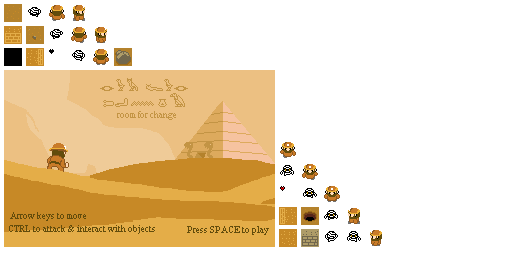
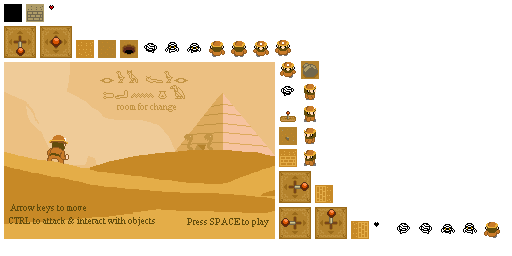
Added LeverScreen

Changed region(s): [[0.0, 0.0, 0.75, 0.9688], [0.7812, 0.8438, 1.0, 0.9375]]

diff --git a/roomforchange/roomforchange/src/com/sturdyhelmetgames/roomforchange/screen/LeverScreen.java b/roomforchange/roomforchange/src/com/sturdyhelmetgames/roomforchange/screen/LeverScreen.java
@@ -1,0 +1,85 @@
+package com.sturdyhelmetgames.roomforchange.screen;
+
+import com.badlogic.gdx.Gdx;
+import com.badlogic.gdx.Input.Keys;
+import com.badlogic.gdx.graphics.g2d.TextureRegion;
+import com.sturdyhelmetgames.roomforchange.RoomForChangeGame;
+import com.sturdyhelmetgames.roomforchange.assets.Assets;
+import com.sturdyhelmetgames.roomforchange.level.Level;
+
+public class LeverScreen extends Basic2DScreen {
+
+	private final GameScreen gameScreen;
+
+	public static final int UP = 0;
+	public static final int DOWN = 1;
+	public static final int LEFT = 2;
+	public static final int RIGHT = 3;
+	public static final int NEUTRAL = 4;
+
+	private int leverDirection = NEUTRAL;
+	private float leverStateTime = 0f;
+	private float MAX_LEVER_STATETIME = 2.5f;
+
+	public LeverScreen(RoomForChangeGame game, GameScreen gameScreen) {
+		super(game, 12, 8);
+		this.gameScreen = gameScreen;
+	}
+
+	@Override
+	protected void updateScreen(float fixedStep) {
+		gameScreen.updateScreen(fixedStep);
+
+		if (leverDirection != NEUTRAL) {
+			leverStateTime += fixedStep;
+			if (leverStateTime > MAX_LEVER_STATETIME) {
+				leverStateTime = 0f;
+				leverDirection = NEUTRAL;
+			}
+		}
+	}
+
+	@Override
+	public void renderScreen(float delta) {
+		gameScreen.renderScreen(delta);
+		spriteBatch.setProjectionMatrix(camera.combined);
+		spriteBatch.begin();
+
+		TextureRegion region = null;
+		if (leverDirection == UP) {
+			region = Assets.getFullGameObject("lever-up");
+		} else if (leverDirection == DOWN) {
+			region = Assets.getFullGameObject("lever-down");
+		} else if (leverDirection == LEFT) {
+			region = Assets.getFullGameObject("lever-left");
+		} else if (leverDirection == RIGHT) {
+			region = Assets.getFullGameObject("lever-right");
+		} else if (leverDirection == NEUTRAL) {
+			region = Assets.getFullGameObject("lever-neutral");
+		}
+		spriteBatch.draw(region, -2f, -2f, 4f, 4f);
+		spriteBatch.end();
+	}
+
+	@Override
+	public boolean keyDown(int keycode) {
+		if (keycode == Keys.UP) {
+			gameScreen.startScreenQuake(Level.UP);
+			leverDirection = UP;
+		} else if (keycode == Keys.DOWN) {
+			gameScreen.startScreenQuake(Level.DOWN);
+			leverDirection = DOWN;
+		} else if (keycode == Keys.LEFT) {
+			gameScreen.startScreenQuake(Level.LEFT);
+			leverDirection = LEFT;
+		} else if (keycode == Keys.RIGHT) {
+			gameScreen.startScreenQuake(Level.RIGHT);
+			leverDirection = RIGHT;
+		} else if (keycode == Keys.CONTROL_LEFT || keycode == Keys.ESCAPE) {
+			Gdx.input.setInputProcessor(gameScreen);
+			game.setScreen(gameScreen);
+		}
+		return super.keyDown(keycode);
+	}
+
+}

diff --git a/roomforchange/roomforchange/src/com/sturdyhelmetgames/roomforchange/entity/Player.java b/roomforchange/roomforchange/src/com/sturdyhelmetgames/roomforchange/entity/Player.java
@@ -2,12 +2,14 @@ package com.sturdyhelmetgames.roomforchange.entity;
 
 import com.badlogic.gdx.graphics.g2d.Animation;
 import com.badlogic.gdx.graphics.g2d.SpriteBatch;
+import com.badlogic.gdx.math.Rectangle;
 import com.sturdyhelmetgames.roomforchange.assets.Assets;
 import com.sturdyhelmetgames.roomforchange.level.Level;
 
 public class Player extends Entity {
 
 	private int health;
+	private final Rectangle hitBounds = new Rectangle(0f, 0f, 1f, 1f);
 
 	public Player(float x, float y, Level level) {
 		super(x, y, 1f, 1f, level);
@@ -38,6 +40,27 @@ public class Player extends Entity {
 					bounds.y, width, height);
 		}
 
+	}
+
+	private static final float HIT_DISTANCE = 0.5f;
+
+	public void tryHit() {
+		hitBounds.x = bounds.x;
+		hitBounds.y = bounds.y;
+		if (direction == Direction.LEFT) {
+			hitBounds.x -= HIT_DISTANCE;
+		} else if (direction == Direction.RIGHT) {
+			hitBounds.x += HIT_DISTANCE;
+		} else if (direction == Direction.UP) {
+			hitBounds.y += HIT_DISTANCE;
+		} else if (direction == Direction.DOWN) {
+			hitBounds.y -= HIT_DISTANCE;
+		}
+
+		for (int i = 0; i < level.entities.size; i++) {
+			final Entity entity = level.entities.get(i);
+			entity.hit(hitBounds);
+		}
 	}
 
 }

diff --git a/roomforchange/roomforchange/src/com/sturdyhelmetgames/roomforchange/screen/GameScreen.java b/roomforchange/roomforchange/src/com/sturdyhelmetgames/roomforchange/screen/GameScreen.java
@@ -116,21 +116,8 @@ public class GameScreen extends Basic2DScreen {
 
 	@Override
 	public boolean keyDown(int keycode) {
-		if (keycode == Keys.W) {
-			startScreenQuake(Level.UP);
-			return true;
-		}
-		if (keycode == Keys.S) {
-			startScreenQuake(Level.DOWN);
-			return true;
-		}
-		if (keycode == Keys.A) {
-			startScreenQuake(Level.LEFT);
-			return true;
-		}
-		if (keycode == Keys.D) {
-			startScreenQuake(Level.RIGHT);
-			return true;
+		if (keycode == Keys.CONTROL_LEFT) {
+			level.player.tryHit();
 		}
 		return super.keyDown(keycode);
 	}
@@ -157,5 +144,9 @@ public class GameScreen extends Basic2DScreen {
 		});
 		Assets.getGameSound(Assets.SOUND_STONEDOOR).play(0.5f, 1.5f, 0f);
 		level.pauseEntities();
+	}
+
+	public void openLeverScreen() {
+		game.setScreen(new LeverScreen(game, this));
 	}
 }

diff --git a/roomforchange/roomforchange/src/com/sturdyhelmetgames/roomforchange/entity/Lever.java b/roomforchange/roomforchange/src/com/sturdyhelmetgames/roomforchange/entity/Lever.java
@@ -1,0 +1,32 @@
+package com.sturdyhelmetgames.roomforchange.entity;
+
+import com.badlogic.gdx.graphics.g2d.SpriteBatch;
+import com.badlogic.gdx.math.Rectangle;
+import com.sturdyhelmetgames.roomforchange.assets.Assets;
+import com.sturdyhelmetgames.roomforchange.level.Level;
+
+public class Lever extends Entity {
+
+	public Lever(float x, float y, Level level) {
+		super(x, y, 1f, 1f, level);
+	}
+
+	@Override
+	public void render(float delta, SpriteBatch batch) {
+		batch.draw(Assets.getGameObject("lever"), bounds.x, bounds.y, width,
+				height);
+	}
+
+	@Override
+	public void update(float fixedStep) {
+		super.update(fixedStep);
+	}
+
+	@Override
+	public void hit(Rectangle hitBounds) {
+		if (hitBounds.overlaps(bounds)) {
+			level.gameScreen.openLeverScreen();
+		}
+	}
+
+}

diff --git a/roomforchange/roomforchange/src/com/sturdyhelmetgames/roomforchange/entity/Entity.java b/roomforchange/roomforchange/src/com/sturdyhelmetgames/roomforchange/entity/Entity.java
@@ -22,7 +22,7 @@ public class Entity {
 	public float stateTime = 0f;
 	public float width, height;
 	public final Rectangle bounds = new Rectangle();
-	private Rectangle[] r = { new Rectangle(), new Rectangle(),
+	protected Rectangle[] r = { new Rectangle(), new Rectangle(),
 			new Rectangle(), new Rectangle() };
 	public int[][] tiles;
 
@@ -119,7 +119,7 @@ public class Entity {
 		}
 	}
 
-	private void fetchCollidableRects() {
+	protected void fetchCollidableRects() {
 		int p1x = (int) bounds.x;
 		int p1y = (int) Math.floor(bounds.y);
 		int p2x = (int) (bounds.x + bounds.width);
@@ -163,5 +163,10 @@ public class Entity {
 			return true;
 		}
 		return false;
+	}
+
+	public void hit(Rectangle hitBounds) {
+		// TODO Auto-generated method stub
+
 	}
 }

diff --git a/roomforchange/roomforchange/src/com/sturdyhelmetgames/roomforchange/entity/Mummy.java b/roomforchange/roomforchange/src/com/sturdyhelmetgames/roomforchange/entity/Mummy.java
@@ -3,6 +3,7 @@ package com.sturdyhelmetgames.roomforchange.entity;
 import com.badlogic.gdx.graphics.g2d.Animation;
 import com.badlogic.gdx.graphics.g2d.SpriteBatch;
 import com.badlogic.gdx.math.MathUtils;
+import com.badlogic.gdx.math.Rectangle;
 import com.badlogic.gdx.math.Vector2;
 import com.sturdyhelmetgames.roomforchange.assets.Assets;
 import com.sturdyhelmetgames.roomforchange.level.Level;
@@ -83,4 +84,12 @@ public class Mummy extends Entity {
 			direction = Direction.UP;
 		}
 	}
+
+	@Override
+	public void hit(Rectangle hitBounds) {
+		if (hitBounds.overlaps(bounds)) {
+
+		}
+	}
+
 }

diff --git a/roomforchange/roomforchange/src/com/sturdyhelmetgames/roomforchange/util/LabyrinthUtil.java b/roomforchange/roomforchange/src/com/sturdyhelmetgames/roomforchange/util/LabyrinthUtil.java
@@ -1,6 +1,7 @@
 package com.sturdyhelmetgames.roomforchange.util;
 
 import com.sturdyhelmetgames.roomforchange.assets.Assets;
+import com.sturdyhelmetgames.roomforchange.entity.Lever;
 import com.sturdyhelmetgames.roomforchange.entity.Mummy;
 import com.sturdyhelmetgames.roomforchange.entity.Player;
 import com.sturdyhelmetgames.roomforchange.level.LabyrinthPiece;
@@ -36,6 +37,7 @@ public class LabyrinthUtil {
 
 		level.player = new Player(2, 2, level);
 		level.entities.add(level.player);
+		level.entities.add(new Lever(5f, 5f, level));
 
 		level.entities.add(new Mummy(10f, 5f, level));
 

diff --git a/roomforchange/roomforchange/src/com/sturdyhelmetgames/roomforchange/level/Level.java b/roomforchange/roomforchange/src/com/sturdyhelmetgames/roomforchange/level/Level.java
@@ -12,7 +12,7 @@ import com.sturdyhelmetgames.roomforchange.util.LabyrinthUtil;
 
 public class Level {
 
-	private final GameScreen gameScreen;
+	public final GameScreen gameScreen;
 	private LabyrinthPiece[][] labyrinth;
 	private LevelTile[][] tiles;
 
@@ -168,8 +168,11 @@ public class Level {
 			}
 		}
 		for (int i = 0; i < entities.size; i++) {
-			entities.get(i).render(delta, batch);
+			final Entity entity = entities.get(i);
+			if (entity != player)
+				entity.render(delta, batch);
 		}
+		player.render(delta, batch);
 	}
 
 	public static final int LEFT = 0;
